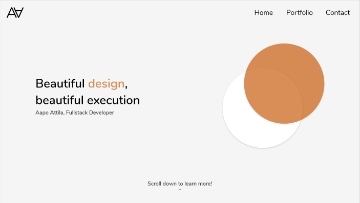
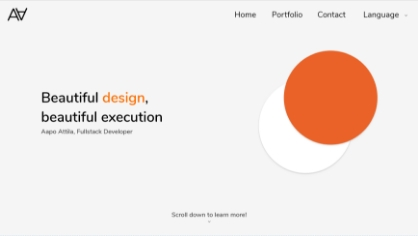
colors and assets finalized, more data stuff

diff --git a/front/src/components/Projects.jsx b/front/src/components/Projects.jsx
@@ -1,7 +1,7 @@
 import React from 'react';
 import { Trans } from 'react-i18next';
 import { makeStyles } from '@material-ui/core/styles';
-import { Typography, Grid, Paper, Container } from '@material-ui/core';
+import { Typography, Grid, Paper, Container, Link } from '@material-ui/core';
 import { Spacers } from '../utils/styles';
 import { projects } from '../utils/data';
 import ArrowDown from './ArrowDown';
@@ -11,7 +11,7 @@ const styles = makeStyles(theme => ({
     borderRadius: '25px',
     width: '82%',
     minWidth: '360px',
-    maxHeight: '485px',
+    height: '500px',
     overflow: 'hidden',
   },
   container: {
@@ -40,11 +40,11 @@ const styles = makeStyles(theme => ({
     justifyContent: 'center',
   },
   header: {
-    marginTop: '40px',
+    marginTop: '10px',
   },
   subtitle: {
-    marginTop: '40px',
-    marginBottom: '40px',
+    marginTop: '30px',
+    marginBottom: '30px',
   },
   textContainer: {
     padding: '30px',
@@ -53,6 +53,9 @@ const styles = makeStyles(theme => ({
     marginTop: Spacers.spacerDesktop,
     [theme.breakpoints.down('xs')]: {
       marginTop: Spacers.spacerMobile,
+    },
+    link: {
+      textDecoration: 'none',
     },
   },
 }));
@@ -77,7 +80,9 @@ const Projects = () => {
                   </div>
                   <div className={classes.textContainer}>
                     <Typography variant="h4" className={classes.header}>
-                      <Trans i18nKey={p.name} />
+                      <Link href={p.link} className={classes.link} target="_blank" color="textPrimary">
+                        <Trans i18nKey={p.name} />
+                      </Link>
                     </Typography>
                     <Typography variant="h5" color="secondary" className={classes.subtitle}>
                       <Trans i18nKey={p.subtitle} />

diff --git a/front/src/utils/data.js b/front/src/utils/data.js
@@ -1,4 +1,5 @@
-import cvPhoto from '../assets/cvProject2x.jpg';
+import cv from '../assets/cvProject@2x.jpg';
+import acs from '../assets/acs@2x.jpg';
 
 export const educations = [
   {
@@ -28,17 +29,18 @@ export const about = [
 
 export const projects = [
   {
-    image: cvPhoto,
+    image: cv,
     name: 'cvCardHeader',
     subtitle: 'cvCardSubtitle',
   },
   {
-    image: cvPhoto,
-    name: 'cvCardHeader',
-    subtitle: 'cvCardSubtitle',
+    image: acs,
+    link: 'http://api-acs.tech',
+    name: 'acsCardHeader',
+    subtitle: 'acsCardSubtitle',
   },
   {
-    image: cvPhoto,
+    image: cv,
     name: 'cvCardHeader',
     subtitle: 'cvCardSubtitle',
   },
